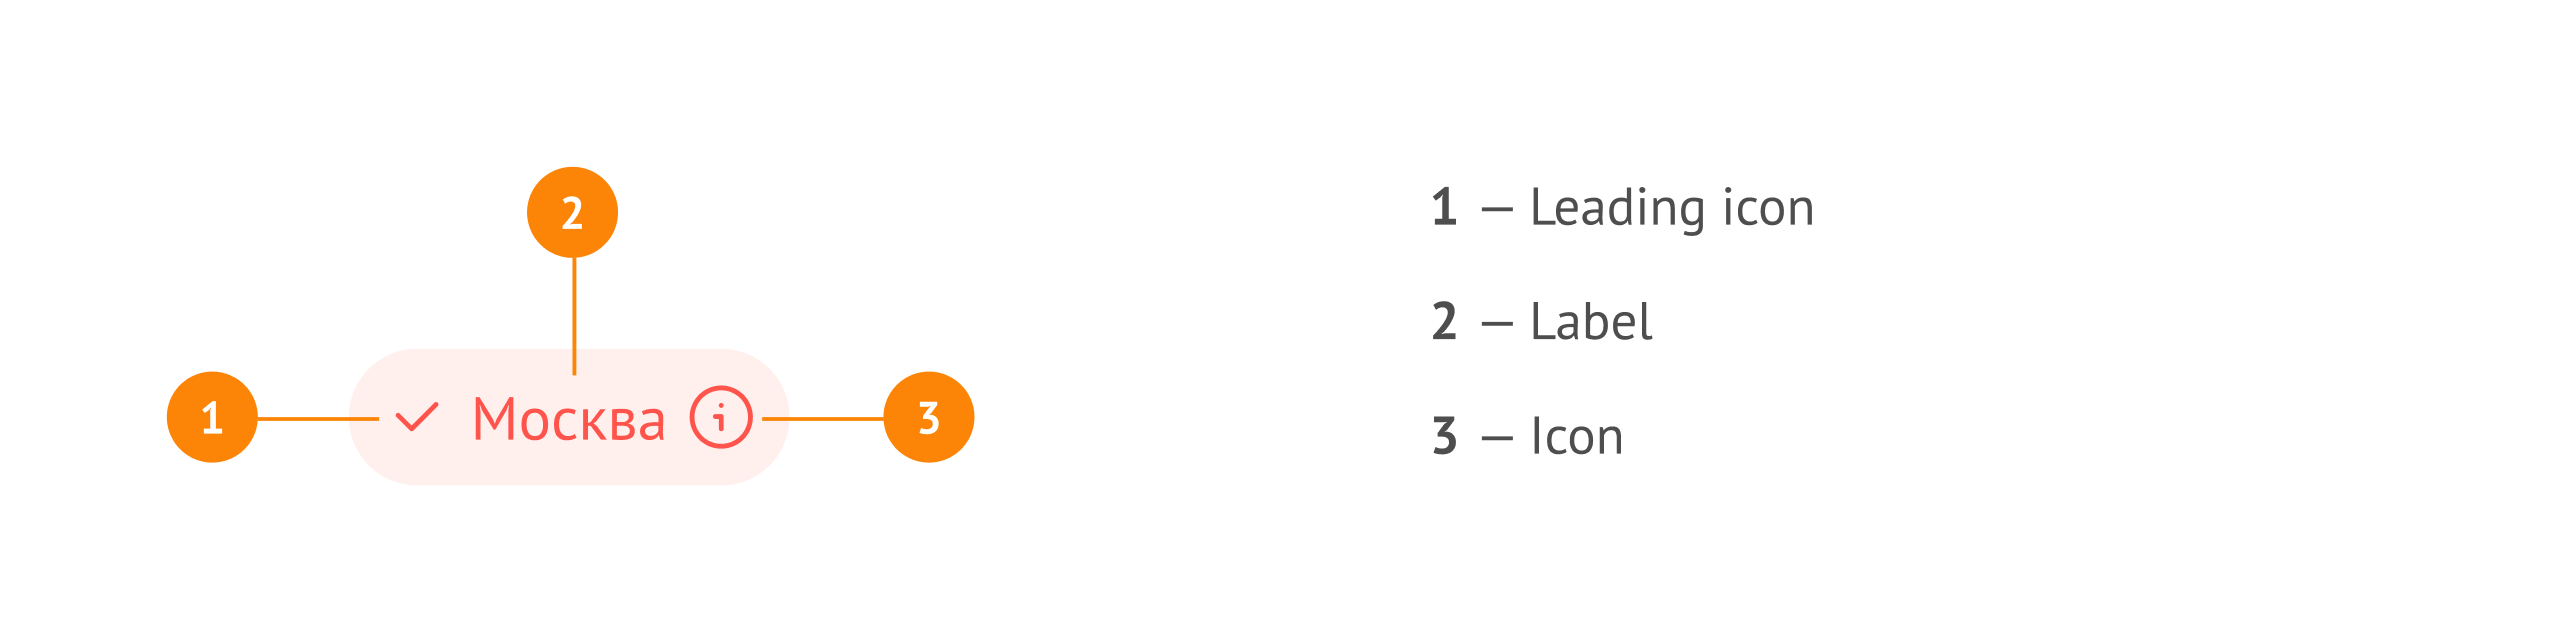
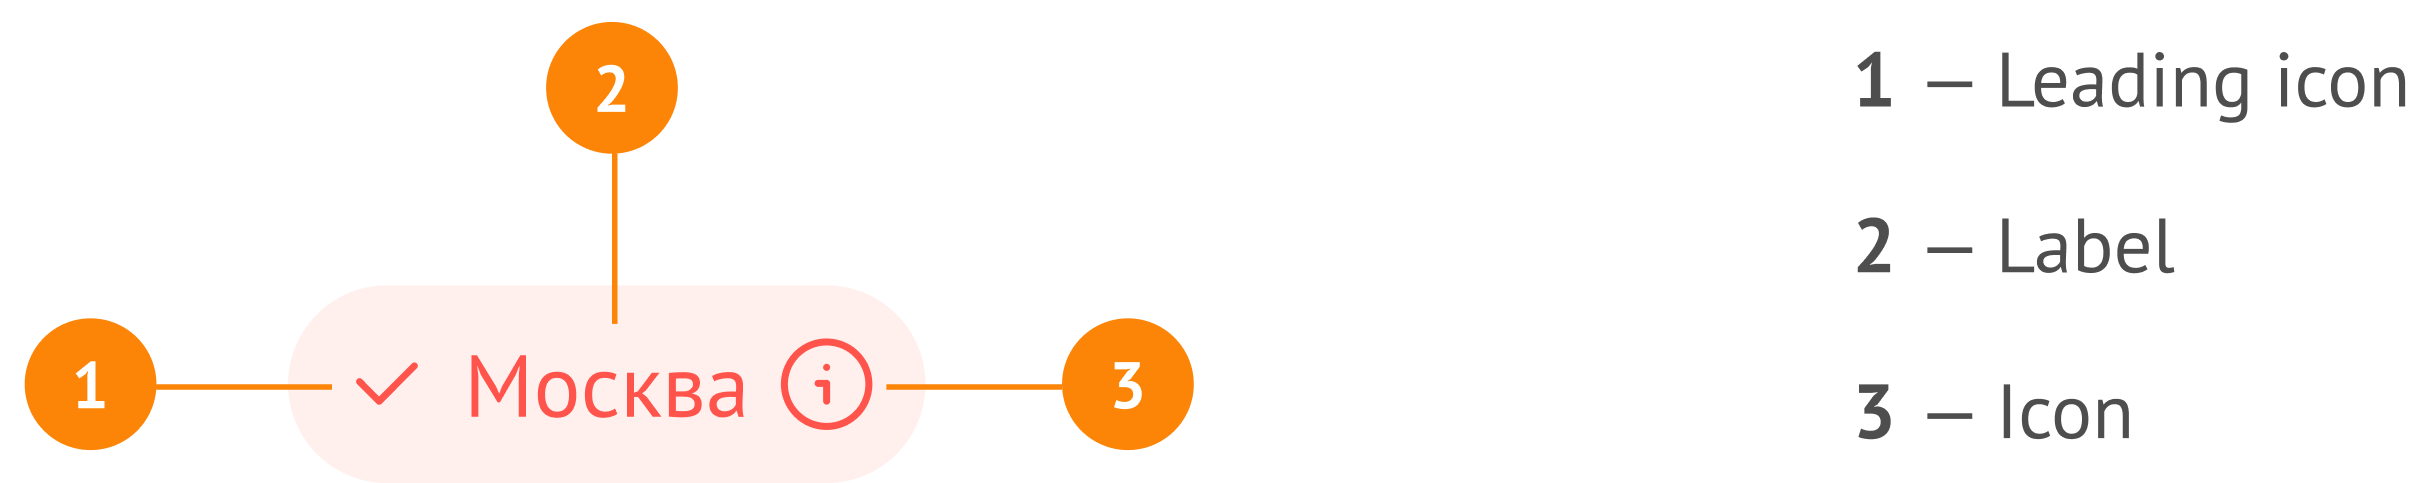
tabs redisign

diff --git a/src/components/ReadOnlyTag.stories.ts b/src/components/ReadOnlyTag.stories.ts
@@ -42,7 +42,7 @@ const themeExamples = [
   { color: 'orange-accent' },
 ] satisfies Array<{ color: ReadOnlyTagColor }>
 const readOnlyTagDescription = `
-ReadOnlyTag — неинтерактивный информационный тег для коротких меток, категорий и атрибутов, которые нужно только прочитать.
+Неинтерактивный информационный тег для коротких меток, категорий и атрибутов, которые нужно только прочитать.
 `
 
 const ReadOnlyTagDocsPage = {
@@ -514,46 +514,50 @@ export const ColorSizeMatrix: Story = {
           class="read-only-tag-matrix"
           aria-label="Варианты ReadOnlyTag по цвету и размеру"
         >
-          <div class="read-only-tag-matrix__top">
-            <div class="read-only-tag-matrix__top-spacer"></div>
-            <div class="read-only-tag-matrix__size-axis">
-              <span class="read-only-tag-matrix__axis-title">Size</span>
-              <span class="read-only-tag-matrix__horizontal-bracket" aria-hidden="true"></span>
-              <div class="read-only-tag-matrix__size-labels">
-                <span
-                  v-for="size in matrixSizes"
-                  :key="size.value"
-                  class="read-only-tag-matrix__label read-only-tag-matrix__label--size"
-                >
-                  {{ size.label }}
-                </span>
+          <div class="read-only-tag-matrix__layout">
+            <div class="read-only-tag-matrix__top">
+              <div class="read-only-tag-matrix__top-spacer"></div>
+              <div class="read-only-tag-matrix__size-axis">
+                <span class="read-only-tag-matrix__axis-title">Size</span>
+                <span class="read-only-tag-matrix__horizontal-bracket" aria-hidden="true"></span>
+                <div class="read-only-tag-matrix__size-labels">
+                  <span
+                    v-for="size in matrixSizes"
+                    :key="size.value"
+                    class="read-only-tag-matrix__label read-only-tag-matrix__label--size"
+                  >
+                    {{ size.label }}
+                  </span>
+                </div>
               </div>
             </div>
-          </div>
-          <div class="read-only-tag-matrix__body">
-            <div class="read-only-tag-matrix__color-title">Color</div>
-            <span class="read-only-tag-matrix__vertical-bracket" aria-hidden="true"></span>
-            <div class="read-only-tag-matrix__color-labels">
-              <span
-                v-for="color in matrixColors"
-                :key="color.value"
-                class="read-only-tag-matrix__label"
-              >
-                {{ color.label }}
-              </span>
-            </div>
-            <div class="read-only-tag-matrix__cells">
-              <div
-                v-for="color in matrixColors"
-                :key="color.value"
-                class="read-only-tag-matrix__row"
-              >
+            <div class="read-only-tag-matrix__body">
+              <div class="read-only-tag-matrix__color-axis">
+                <div class="read-only-tag-matrix__color-title">Color</div>
+                <span class="read-only-tag-matrix__vertical-bracket" aria-hidden="true"></span>
+                <div class="read-only-tag-matrix__color-labels">
+                  <span
+                    v-for="color in matrixColors"
+                    :key="color.value"
+                    class="read-only-tag-matrix__label"
+                  >
+                    {{ color.label }}
+                  </span>
+                </div>
+              </div>
+              <div class="read-only-tag-matrix__cells">
                 <div
-                  v-for="size in matrixSizes"
-                  :key="size.value"
-                  class="read-only-tag-matrix__cell"
+                  v-for="color in matrixColors"
+                  :key="color.value"
+                  class="read-only-tag-matrix__row"
                 >
-                  <ReadOnlyTag label="Москва" :size="size.value" :color="color.value" />
+                  <div
+                    v-for="size in matrixSizes"
+                    :key="size.value"
+                    class="read-only-tag-matrix__cell"
+                  >
+                    <ReadOnlyTag label="Москва" :size="size.value" :color="color.value" />
+                  </div>
                 </div>
               </div>
             </div>

diff --git a/docs/components/DocsTabs.css b/docs/components/DocsTabs.css
@@ -7,41 +7,58 @@
 .docs-tabs__list {
   display: flex;
   flex-wrap: wrap;
-  gap: var(--spaces-semantic-tiny-4px);
-  padding: var(--spaces-semantic-tiny-4px);
-  border: var(--25) solid var(--stroke-border);
-  border-radius: var(--sm-8px);
-  background: var(--background-secondary-surface);
+  gap: var(--spaces-semantic-small-8px);
 }
 
 .docs-tabs__tab {
-  min-height: var(--800);
-  padding: 0 var(--spaces-semantic-medium-12px);
+  display: inline-flex;
+  align-items: center;
+  box-sizing: border-box;
+  min-width: 50px;
+  max-width: 280px;
+  min-height: var(--spaces-semantic-5xl-40px);
+  max-height: var(--spaces-semantic-5xl-40px);
+  padding: var(--spaces-semantic-small-8px) var(--spaces-semantic-medium-12px);
+  overflow: hidden;
   color: var(--text-secondary);
-  font: inherit;
-  font-size: var(--font-sizes-body-small-14px);
-  font-weight: 700;
-  line-height: 130%;
-  background: transparent;
+  font-family: inherit;
+  font-size: 16px;
+  font-weight: var(--font-weight-body-paragraph);
+  line-height: 140%;
+  letter-spacing: 0;
+  text-align: left;
+  text-overflow: ellipsis;
+  white-space: nowrap;
+  background: var(--background-primary-surface);
   border: var(--25) solid transparent;
-  border-radius: var(--xs-4px);
+  border-radius: var(--md-12px);
   cursor: pointer;
 }
 
-.docs-tabs__tab:hover {
-  color: var(--text-primary);
-  background: var(--background-primary-surface);
+.docs-tabs__tab:not([aria-selected='true']):hover {
+  background: var(--background-tab-hover);
 }
 
 .docs-tabs__tab:focus-visible {
-  border-color: var(--stroke-border-dark);
   outline: none;
+}
+
+.docs-tabs__tab:not([aria-selected='true']):focus-visible {
+  background: var(--background-tab-bg);
+  border-color: var(--stroke-border-dark);
 }
 
 .docs-tabs__tab[aria-selected='true'] {
   color: var(--text-primary);
-  background: var(--background-primary-surface);
+  font-family: var(--font-family-heading);
+  font-weight: var(--font-weight-headings-heading);
+  background: var(--background-secondary-surface);
   border-color: var(--stroke-border);
+}
+
+.docs-tabs__tab[aria-selected='true']:focus-visible {
+  outline: var(--25) solid var(--stroke-border-dark);
+  outline-offset: var(--spaces-semantic-tiny-4px);
 }
 
 .docs-tabs__panel {
@@ -51,4 +68,14 @@
 .docs-tabs__panel:focus-visible {
   outline: var(--25) solid var(--stroke-border-dark);
   outline-offset: var(--spaces-semantic-tiny-4px);
+}
+
+@media (max-width: 760px) {
+  .docs-tabs__tab {
+    min-height: 36px;
+    max-height: 36px;
+    font-size: var(--font-sizes-body-small-14px);
+    line-height: 130%;
+    border-radius: var(--sm-8px);
+  }
 }

diff --git a/src/components/Tag.stories.css b/src/components/Tag.stories.css
@@ -183,7 +183,7 @@
   align-items: center;
   justify-content: center;
   margin: var(--spaces-semantic-large-16px) 0 var(--spaces-semantic-4xl-32px);
-  padding: var(--spaces-semantic-large-16px);
+  padding: var(--spaces-semantic-xxxl-28px);
   overflow-x: auto;
   background: var(--background-primary-surface);
   border: 0;
@@ -192,7 +192,7 @@
 
 .tag-docs-anatomy img {
   display: block;
-  width: min(100%, 716px);
+  width: min(100%, 400px);
   height: auto;
 }
 
@@ -238,20 +238,25 @@
   font-family: var(--font-family-paragraph);
 }
 
-.read-only-tag-matrix__top {
+.read-only-tag-matrix__layout {
   display: grid;
-  grid-template-columns: 72px var(--spaces-semantic-small-8px) max-content 1fr;
-  column-gap: var(--spaces-semantic-small-8px);
-  align-items: end;
+  grid-template-columns: max-content 1fr;
+  row-gap: var(--spaces-semantic-large-16px);
+  align-items: stretch;
+}
+
+.read-only-tag-matrix__top,
+.read-only-tag-matrix__body {
+  display: contents;
 }
 
 .read-only-tag-matrix__top-spacer {
-  grid-column: 1 / 4;
+  grid-column: 1;
 }
 
 .read-only-tag-matrix__size-axis {
   display: flex;
-  grid-column: 4;
+  grid-column: 2;
   flex-direction: column;
   gap: var(--spaces-semantic-small-8px);
   align-items: stretch;
@@ -302,11 +307,12 @@
   justify-content: center;
 }
 
-.read-only-tag-matrix__body {
+.read-only-tag-matrix__color-axis {
   display: grid;
-  grid-template-columns: 72px var(--spaces-semantic-small-8px) max-content 1fr;
+  grid-template-columns: 72px var(--spaces-semantic-small-8px) max-content;
   column-gap: var(--spaces-semantic-small-8px);
   align-items: stretch;
+  grid-column: 1;
 }
 
 .read-only-tag-matrix__color-title {
@@ -334,6 +340,7 @@
 }
 
 .read-only-tag-matrix__cells {
+  grid-column: 2;
   display: flex;
   flex-direction: column;
   gap: var(--spaces-semantic-medium-12px);
@@ -557,7 +564,7 @@
 
 .tag-theme-demo__panel {
   display: grid;
-  padding: var(--spaces-semantic-5-xl-40-px, 40px) 148px;
+  padding: var(--spaces-semantic-5xl-40px) 148px;
   row-gap: 20px;
   column-gap: 40px;
   flex: 1 0 0;

diff --git a/src/components/ReadOnlyTag.vue b/src/components/ReadOnlyTag.vue
@@ -120,6 +120,10 @@ const rootClasses = computed(() => [
   padding: 0 var(--spaces-semantic-tiny-4px);
 }
 
+.read-only-tag--tiny .read-only-tag__text-wrapper {
+  padding-block: 0;
+}
+
 .read-only-tag--small .read-only-tag__container {
   min-height: var(--700);
   padding: 0 var(--spaces-semantic-tiny-4px);

diff --git a/src/styles/tokens/color-core-hex.css b/src/styles/tokens/color-core-hex.css
@@ -13,7 +13,7 @@
 --transparency-white-24: #ffffff;
 --transparency-dark-dark-4: #000000;
 --transparency-dark-dark-8: #000000;
---transparency-dark-dark-10: #000000;
+--transparency-dark-dark-10: rgba(0, 0, 0, 0.10);
 --space-gray-25: #eae8e8;
 --jupiter-orange-1000: #1f1004;
 --jupiter-orange-900: #331903;